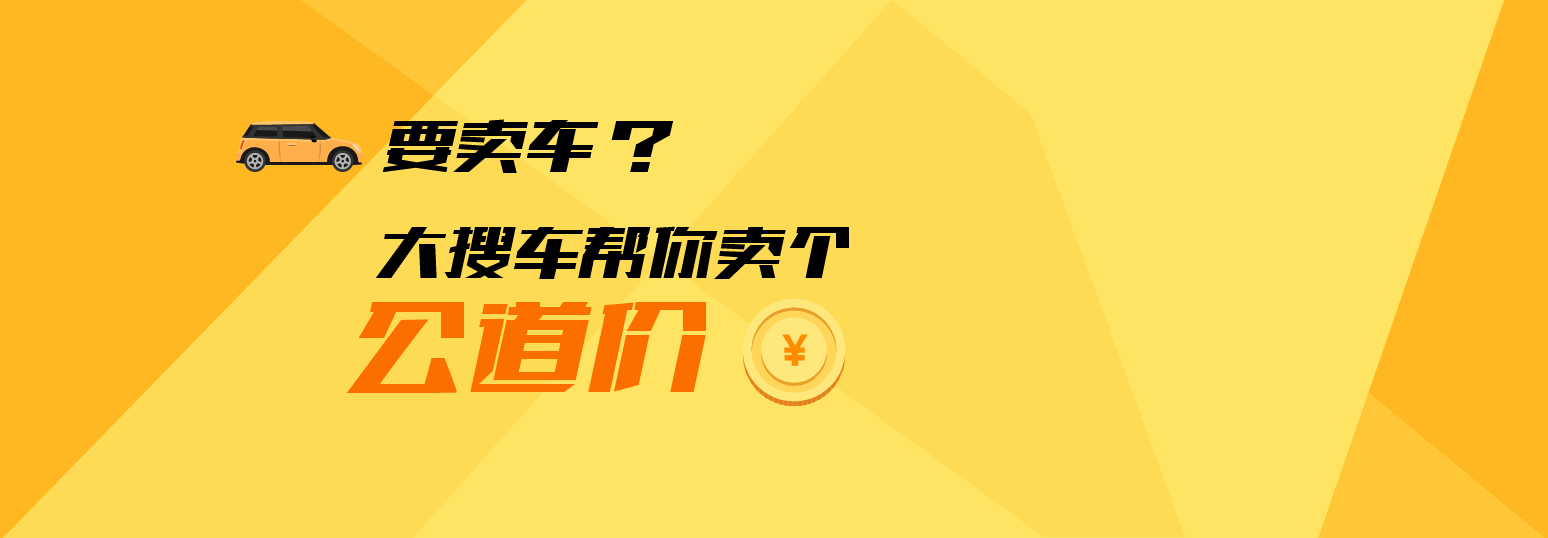
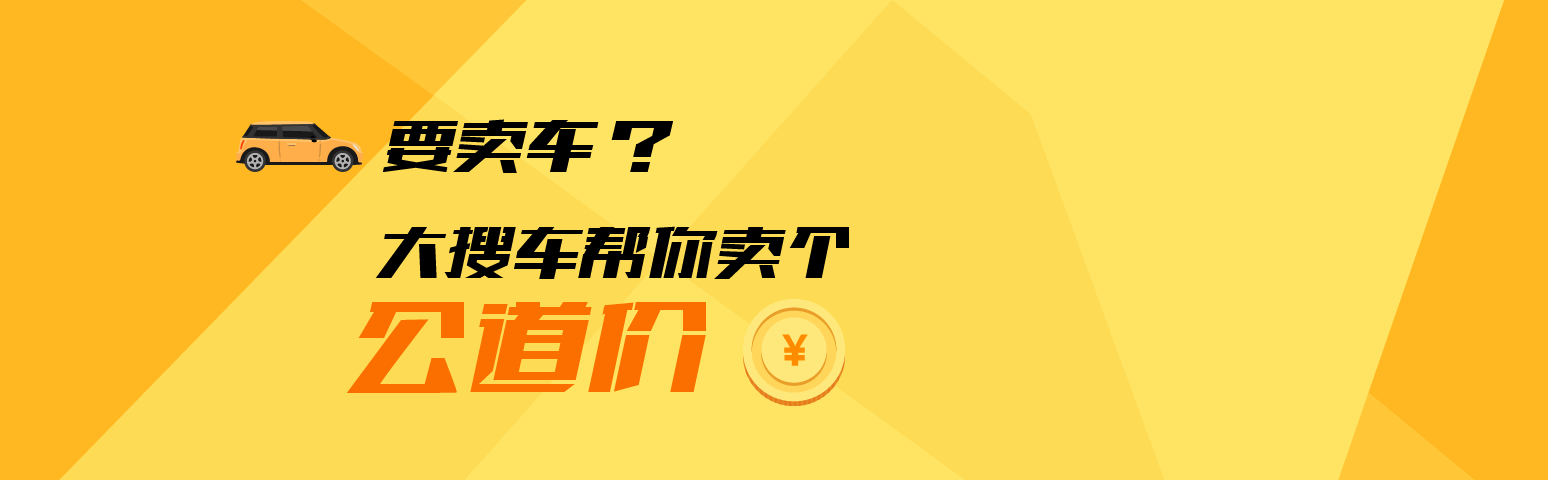
sellcar

diff --git a/assets/css/sellcar.css b/assets/css/sellcar.css
@@ -9,22 +9,21 @@ body {
 }
 #sellcar #content .banner {
     width: 100%;
-    height: 538px;
     background: url(../images/sellcar/banner.png) no-repeat;
     background-position: center;
     background-color: #ffb722;
 }
 #sellcar #content .banner .wrapper {
-    height: 538px;
+    height: 480px;
 }
 #sellcar #content .banner .wrapper #J_sellcarform {
     width: 330px;
-    height: 360px;
     background-color: #fff;
     padding: 30px;
     position: absolute;
     right: 20px;
     top: 50px;
+    padding-bottom: 50px;
 }
 #sellcar #content .banner .wrapper #J_sellcarform h1 {
     font-size: 22px;
@@ -70,7 +69,7 @@ body {
     margin-right: 7px;
 }
 #sellcar #content .banner .wrapper #J_sellcarform #sellcar-form .sellcar-submit {
-    margin-top: 50px;
+    margin-top: 30px;
 }
 #sellcar #content .banner .wrapper #J_sellcarform #sellcar-form .sellcar-submit button {
     display: block;

diff --git a/assets/css/index.css b/assets/css/index.css
@@ -1051,7 +1051,7 @@ a:hover {
 }
 #index .souche-wx .wx-wrap .wx-box .wx-code {
   background-image: url(../images/index/index_sprite.png?123);
-  background-position: -190px -80px;
+  background-position: -189.99999999px -80px;
   width: 70px;
   height: 70px;
   float: left;

diff --git a/assets/css/souche/common.css b/assets/css/souche/common.css
@@ -512,7 +512,7 @@ body {
   top: 0;
   left: 0;
   z-index: 11001;
-  top: -559.99999999px;
+  top: -560px;
   height: 510px;
   overflow: hidden;
   box-shadow: 1px 1px 3px #aaa;
